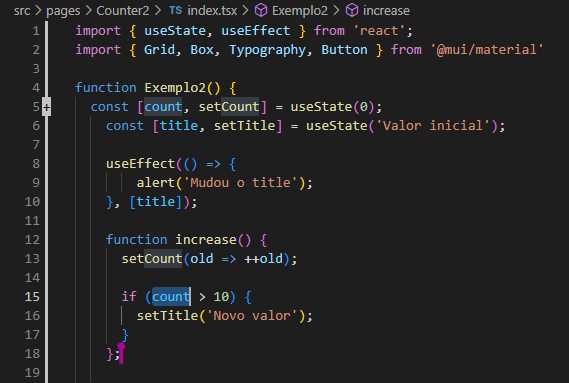
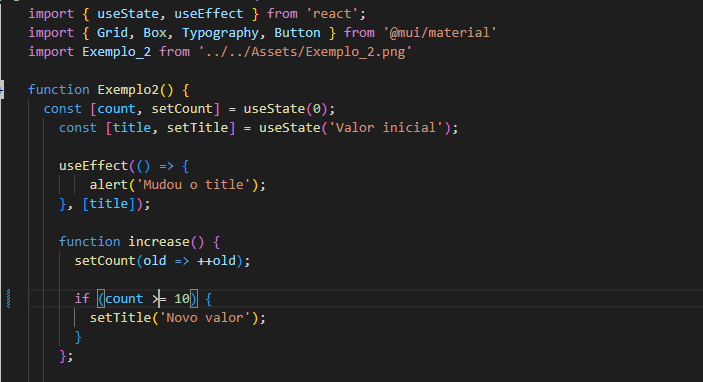
second-commit

Changed region(s): [[0.0, 0.0, 0.9561, 1.0]]

diff --git a/src/pages/Home/index.tsx b/src/pages/Home/index.tsx
@@ -1,23 +1,29 @@
+import {Link} from 'react-router-dom'
 import { Grid, Typography } from '@mui/material';
 import CustomPaper from '../../components/CustomPaper';
+import Counter from '../Counter'
+import Counter2 from '../Counter2'
+
 
 export default function Home() {
     return (
-        <Grid container style={{height: '100vh'}}>
-            <Grid item container xs={6}>
-                <Grid item xs={12}>
-                    <Typography variant='h1' color='text.primary'>Título</Typography>
-                </Grid>
-                <Grid item xs={4}>
-                    <CustomPaper title='Texto 1'/>
-                </Grid>
-                <Grid item xs={4}>
-                    <CustomPaper title='Texto 2'/>
-                </Grid>  
+        <Grid style={{ 
+            display: 'flex', 
+            flexDirection: 'column', 
+            justifyContent: 'center', 
+            alignItems: 'center',
+            width: '100vw'}}>
+            
+            <Grid item xs={12}>
+                <CustomPaper title='O que é o useEffect?
+                                    useEffect é um hook que tem como
+                                    principal objetivo sincronizar estados e 
+                                    executar efeitos colaterais. Esse hook 
+                                    é uma função que pode receber até 2 argumentos, 
+                                    uma função e um array de dependências.'/>
             </Grid>
-            <Grid item xs={6}>
-                <Typography variant='h2' color='text.primary'>Título 2</Typography>
-            </Grid>
+            <Counter></Counter> 
+            <Link color='primary' to='/Counter2'>Exemplo 2</Link>         
         </Grid>
     );
 }

diff --git a/src/pages/Counter2/index.tsx b/src/pages/Counter2/index.tsx
@@ -1,10 +1,12 @@
+import {Link} from 'react-router-dom'
+import Counter3 from '../Counter3'
 import { useState, useEffect } from 'react';
 import { Grid, Box, Typography, Button } from '@mui/material'
 import Exemplo_2 from '../../Assets/Exemplo_2.png'
 
 function Exemplo2() {
   const [count, setCount] = useState(0);
-    const [title, setTitle] = useState('Valor inicial');
+  const [title, setTitle] = useState('Valor inicial');
     
     useEffect(() => {
         alert('Mudou o title');
@@ -13,7 +15,7 @@ function Exemplo2() {
     function increase() {  
       setCount(old => ++old);
       
-      if (count > 10) {
+      if (count >= 10) {
         setTitle('Novo valor');
       }
     };
@@ -31,6 +33,7 @@ function Exemplo2() {
         <Typography variant='h6'>O useEffect é executado quando o componente atualiza ou é renderizado</Typography>
     <img src={Exemplo_2}/>
     </Box>
+    <Link color='primary' to='/Counter3'>Exemplo 3</Link>  
   </Grid>  
   );
 }

diff --git a/src/Routers.tsx b/src/Routers.tsx
@@ -12,7 +12,6 @@ export default function Routers() {
             <Routes>
                 <Route path='/' element={<Home/>} />
                 <Route path='/landing' element={<Landing/>} />
-                <Route path='/counter' element={<Counter/>} />
                 <Route path='/counter2' element={<Counter2/>} />
                 <Route path='/counter3' element={<Counter3/>} />
                 <Route path='/counter4' element={<Counter4/>} />

diff --git a/src/components/CustomPaper/index.tsx b/src/components/CustomPaper/index.tsx
@@ -8,7 +8,7 @@ type CustomPaperProps = {
 export default function CustomPaper({ title }: CustomPaperProps) {
     return (
         <PaperStyled elevation={2}>
-            <Typography variant='body2'>{ title }</Typography>
+            <Typography variant='h4' color='gray'>{ title }</Typography>
         </PaperStyled>
     );
 }

diff --git a/public/index.html b/public/index.html
@@ -4,6 +4,6 @@
     <meta charset="utf-8" />
     <title>Aula 22/06</title>
   </head>
-  <body id="root" style="height: 100vh; width:100vw; padding:0; margin:0">
+  <body id="root" style="width:100vw; padding:0; margin:0">
   </body>
 </html>

diff --git a/src/pages/Counter3/index.tsx b/src/pages/Counter3/index.tsx
@@ -31,6 +31,7 @@ function Exemplo3() {
           <Typography variant='h6'>O useEffect é executado quando o componente atualiza ou é renderizado</Typography>
       <img src={Exemplo_3}/>
       </Box>
+      
     </Grid>      
   );
 }

diff --git a/src/components/CustomPaper/styles.tsx b/src/components/CustomPaper/styles.tsx
@@ -5,5 +5,5 @@ export const PaperStyled = styled(Paper) ({
     padding: '30px',
     // background: 'red',
     // color: 'white',
-    marginRight: '10px'
+    margin: '10px'
 });
